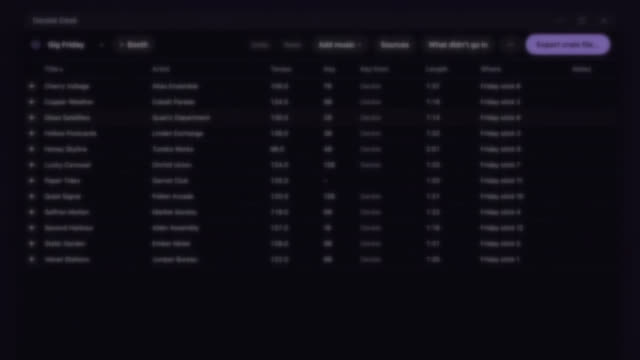
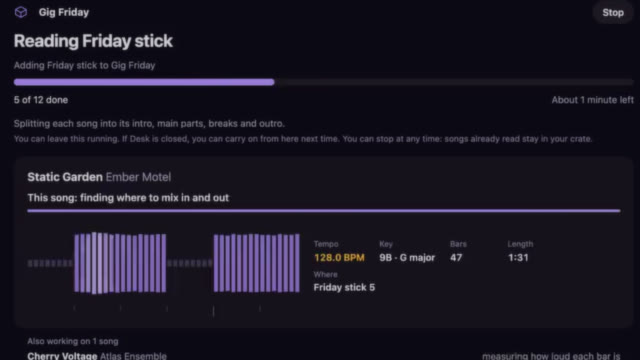
Quick start card: the picture shows Desk reading songs (the run screen mid-run), brighter and less soft; plain kept as the swap-in
The owner chose Desk's own window for the card and asked that it show a song being read (Nov 24, 2026).

diff --git a/core/Tests/DeckieDeskTests/QuickStartTests.swift b/core/Tests/DeckieDeskTests/QuickStartTests.swift
@@ -136,7 +136,7 @@ import Testing
         #expect(card != poster, "the card's picture is not the title frame")
         let made = Self.repo.appendingPathComponent("desk-quickstart")
         var candidates: [Data] = []
-        for name in ["card-window.jpg", "card-plain.jpg"] {
+        for name in ["card-reading.jpg", "card-plain.jpg"] {
             let d = try Data(contentsOf: made.appendingPathComponent(name))
             let s = try #require(Self.jpegSize(d), "\(name) is a JPEG")
             #expect(s.0 * 9 == s.1 * 16, "\(name) is 16:9")

diff --git a/desk-quickstart/README.md b/desk-quickstart/README.md
@@ -32,11 +32,12 @@ that ships, 720p, its poster and the card's picture are in `desk-web/quick-start
   storage: the first screen with the card, the "⋯" menu, the player, the card when the web view cannot play the film
   (the poster and the four steps in words), the player when the film fails while playing, and the first screen after
   Hide (also after the engine is started again). It checks each and says what it found.
-- `card-poster.sh`, `card-window.jpg`, `card-plain.jpg` (Nov 24, 2026): the card's own picture. The poster is the
-  film's title frame, unreadable at card size and under the play button, so the card shows a picture with nothing to
-  read behind the button. Two candidates, cut from the film that ships with ffmpeg alone: "window" (Desk's window on
-  the crate's songs, softened and dimmed) and "plain" (the film's ground and violet glow, no words). The one that
-  ships is `desk-web/quick-start/card.jpg`, a copy of `card-window.jpg`; to swap, copy `card-plain.jpg` over it. The
+- `card-poster.sh`, `card-reading.jpg`, `card-plain.jpg` (Nov 24, 2026): the card's own picture. The poster is the
+  film's title frame, unreadable at card size and under the play button, so the card shows a picture of its own. Two,
+  cut from the film that ships with ffmpeg alone: "reading" (Desk's window reading music: the run screen mid-run, the
+  heading, the progress bar and the song being read with its wave, lightly softened and a step dimmed; the owner's
+  choice) and "plain" (the film's ground and violet glow, no words), kept as the swap-in. The one that ships is
+  `desk-web/quick-start/card.jpg`, a copy of `card-reading.jpg`; to swap, copy `card-plain.jpg` over it. The
   player, and the card where the film cannot play (the steps in words), keep the poster.
 - `walkthrough/sketch.html`, `sketch.js`: the in-app walkthrough sketch from the first cut (option B, not chosen).
 
@@ -72,7 +73,7 @@ With Node, ffmpeg, Python 3 with numpy, and Google Chrome. One heavy step at a t
     nice -n 19 ffmpeg -ss 2.4 -i $W/deckie-desk-quick-start-1080p.mp4 -frames:v 1 -vf scale=1280:720 -q:v 4 \
         desk-web/quick-start/poster.jpg
     # the card's picture: both candidates from the film that ships, then the chosen one beside the poster
-    sh desk-quickstart/card-poster.sh && cp desk-quickstart/card-window.jpg desk-web/quick-start/card.jpg
+    sh desk-quickstart/card-poster.sh && cp desk-quickstart/card-reading.jpg desk-web/quick-start/card.jpg
     nice -n 19 ffmpeg -i $W/deckie-desk-quick-start-1080p.mp4 \
         -vf "fps=1/2.5,scale=480:-1,tile=4x6:padding=6:color=0x222222" -frames:v 1 $W/contact-sheet.png
     nice -n 19 node desk-quickstart/capture/card.mjs --engine $PWD/core/.build/debug/deckie-desk-engine \

diff --git a/docs/product/00-decisions.md b/docs/product/00-decisions.md
@@ -838,8 +838,10 @@ opening video. Built on the branch `pc/quick-start-2`.
   iPad gets it there.
 - **The card's own picture (Nov 24, 2026).** The card on the first screen shows a picture of its own
   (`desk-web/quick-start/card.jpg`), not the poster: the poster is the film's title frame, whose words cannot be read
-  at card size and sat under the play button. It ships as Desk's window from the film, softened and dimmed; a plain
-  candidate (the film's ground and violet glow, no words) is kept in `desk-quickstart/`, and swapping is one file.
+  at card size and sat under the play button. The card's picture shows Desk reading songs: the run screen from the
+  film, mid-run, with the progress bar and the song being read, lightly softened. The owner chose this kind of
+  picture, Desk's own window, and asked that it show a song being read (Nov 24, 2026). A plain picture (the film's
+  ground and violet glow, no words) is kept in `desk-quickstart/` as the swap-in, and swapping is one file.
   The player, and the card where the film cannot play, keep the title frame. Protocol 2 gains, by addition only,
   `hello.quickStart.cardPicture`; a page shows the poster when it is absent or does not load.
 

diff --git a/desk-app/README.md b/desk-app/README.md
@@ -106,7 +106,7 @@ shows the first screen; the crate is made when music is added, named after the s
 night 2"). With no crate at all, the first screen offers Add music the same way.
 
 **The quick start** (D46, `QuickStart.swift`). Until the DJ hides it, the first screen opens with a card in place of
-the crate's big drawing: the card's picture (`card.jpg`, Desk's window from the film, softened; since Nov 24, 2026,
+the crate's big drawing: the card's picture (`card.jpg`, Desk reading songs, from the film; since Nov 24, 2026,
 in place of the film's title frame, which could not be read at that size) with a play button, "New to Desk?", "Watch the quick start
 (1 minute)" and Hide. The film (about a minute, silent, captions in the picture) plays in a sheet; it never starts by
 itself (`DeskQuickStart.playsItselfOnFirstOpen` in the core is the one switch, off). Afterwards it is Help > Watch the
